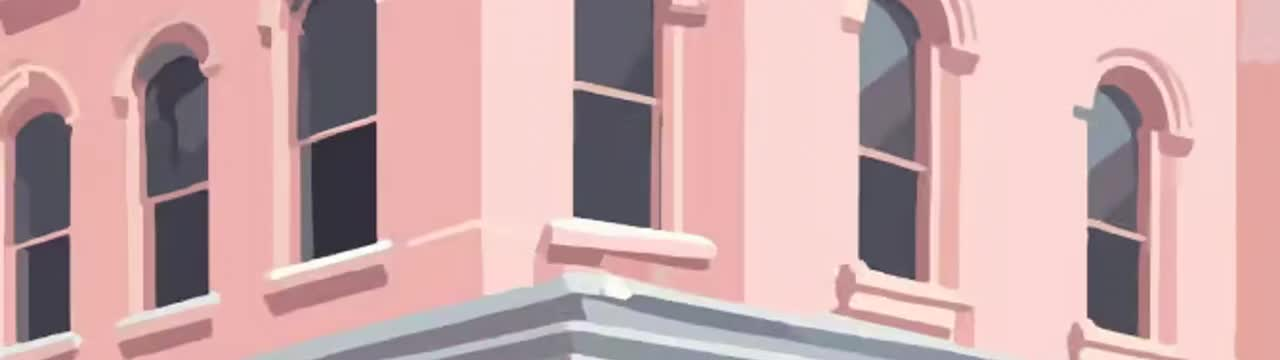
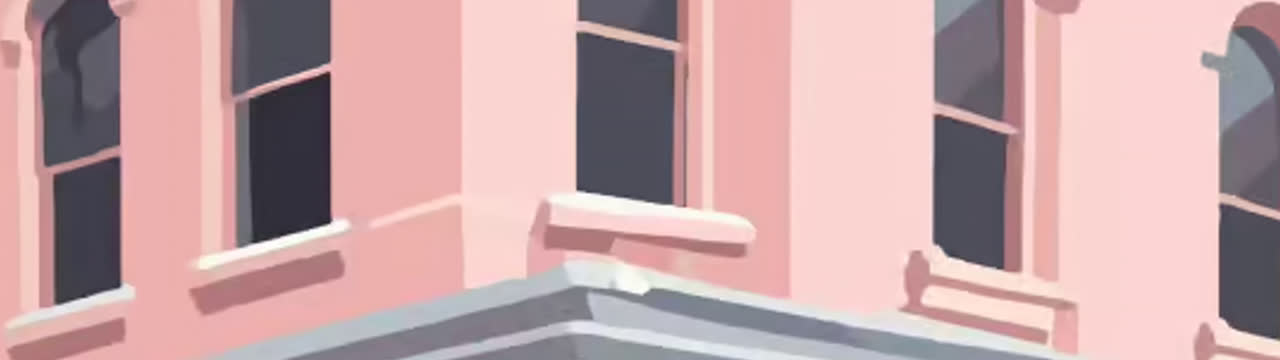
Hero + separator: hosted MP4s from brand OPEN-001 art (Vercel-safe)
- Regenerate /videos/hero.mp4 and separator with minimal motion matching site look
- Default hero to same-origin URLs + poster; hero play() retry; preload metadata
- Fallback settings point to /videos/*; clear DB overrides for hosted defaults

diff --git a/components/menu/MenuBoard.tsx b/components/menu/MenuBoard.tsx
@@ -12,10 +12,12 @@ import "swiper/css/pagination";
 import { Navigation, Pagination } from "swiper/modules";
 import type { Swiper as SwiperType } from "swiper/types";
 
-/** Original Anita hero assets; MP4 may not play when embedded from some hosts — override in Admin → Settings. */
-const DEFAULT_HERO_VIDEO_URL = "https://www.anita-gelato.com/wp-content/uploads/2024/06/hero.mp4";
-const DEFAULT_HERO_POSTER_URL = "https://www.anita-gelato.com/wp-content/uploads/2024/07/OPEN-001.png";
-/** Same-origin — anita-gelato.com MP4 returns 403 when embedded from Vercel. */
+/**
+ * Same-origin MP4s encoded from the same OPEN-001 storefront art as anita-gelato.com
+ * (their direct MP4 URLs return 403 when embedded from Vercel). Override in Admin → Settings.
+ */
+const DEFAULT_HERO_VIDEO_URL = "/videos/hero.mp4";
+const DEFAULT_HERO_POSTER_URL = "/videos/hero-poster.jpg";
 const DEFAULT_SEPARATOR_VIDEO_URL = "/videos/separator.mp4";
 const DEFAULT_SEPARATOR_POSTER_URL = "/videos/separator-poster.jpg";
 
@@ -368,7 +370,13 @@ export function MenuBoard({
   const separatorVideoSrc = settings.separator_video_url?.trim() || DEFAULT_SEPARATOR_VIDEO_URL;
   const separatorPosterSrc = DEFAULT_SEPARATOR_POSTER_URL;
 
+  const heroVideoRef = useRef<HTMLVideoElement>(null);
   const separatorVideoRef = useRef<HTMLVideoElement>(null);
+  useEffect(() => {
+    const el = heroVideoRef.current;
+    if (!el) return;
+    void el.play().catch(() => {});
+  }, [heroVideoSrc]);
   useEffect(() => {
     const el = separatorVideoRef.current;
     if (!el) return;
@@ -504,13 +512,14 @@ export function MenuBoard({
       <section className="hero" id="top">
         <div className="hero-sky">
           <video
+            ref={heroVideoRef}
             key={heroVideoSrc}
             className="hero-video"
             autoPlay
             muted
             loop
             playsInline
-            preload="none"
+            preload="metadata"
             poster={heroPosterSrc}
           >
             <source src={heroVideoSrc} type="video/mp4" />

diff --git a/lib/menu-fallback.ts b/lib/menu-fallback.ts
@@ -13,9 +13,9 @@ export const FALLBACK_SITE_SETTINGS: SiteSettingsRow = {
   ],
   seasonal_tagline: "Spring 2026 Arrivals",
   hero_eyebrow: "Tarzana · Los Angeles",
-  hero_video_url: null,
-  hero_video_poster_url: null,
-  separator_video_url: null,
+  hero_video_url: "/videos/hero.mp4",
+  hero_video_poster_url: "/videos/hero-poster.jpg",
+  separator_video_url: "/videos/separator.mp4",
   hero_secondary_label: null,
   hero_secondary_href: null,
 };

diff --git a/components/admin/SiteMediaSettingsForm.tsx b/components/admin/SiteMediaSettingsForm.tsx
@@ -109,7 +109,7 @@ export function SiteMediaSettingsForm({ initial }: Props) {
         <input
           value={heroVideoUrl}
           onChange={(e) => setHeroVideoUrl(e.target.value)}
-          placeholder="https://….supabase.co/storage/v1/object/public/…/hero.mp4"
+          placeholder="Leave blank for built-in /videos/hero.mp4 (brand art), or paste your MP4 URL"
           className="mt-1.5 w-full rounded-lg border border-slate-200 px-3 py-2.5 font-mono text-sm text-slate-900 shadow-sm focus:border-slate-400 focus:outline-none focus:ring-2 focus:ring-slate-200"
         />
       </label>